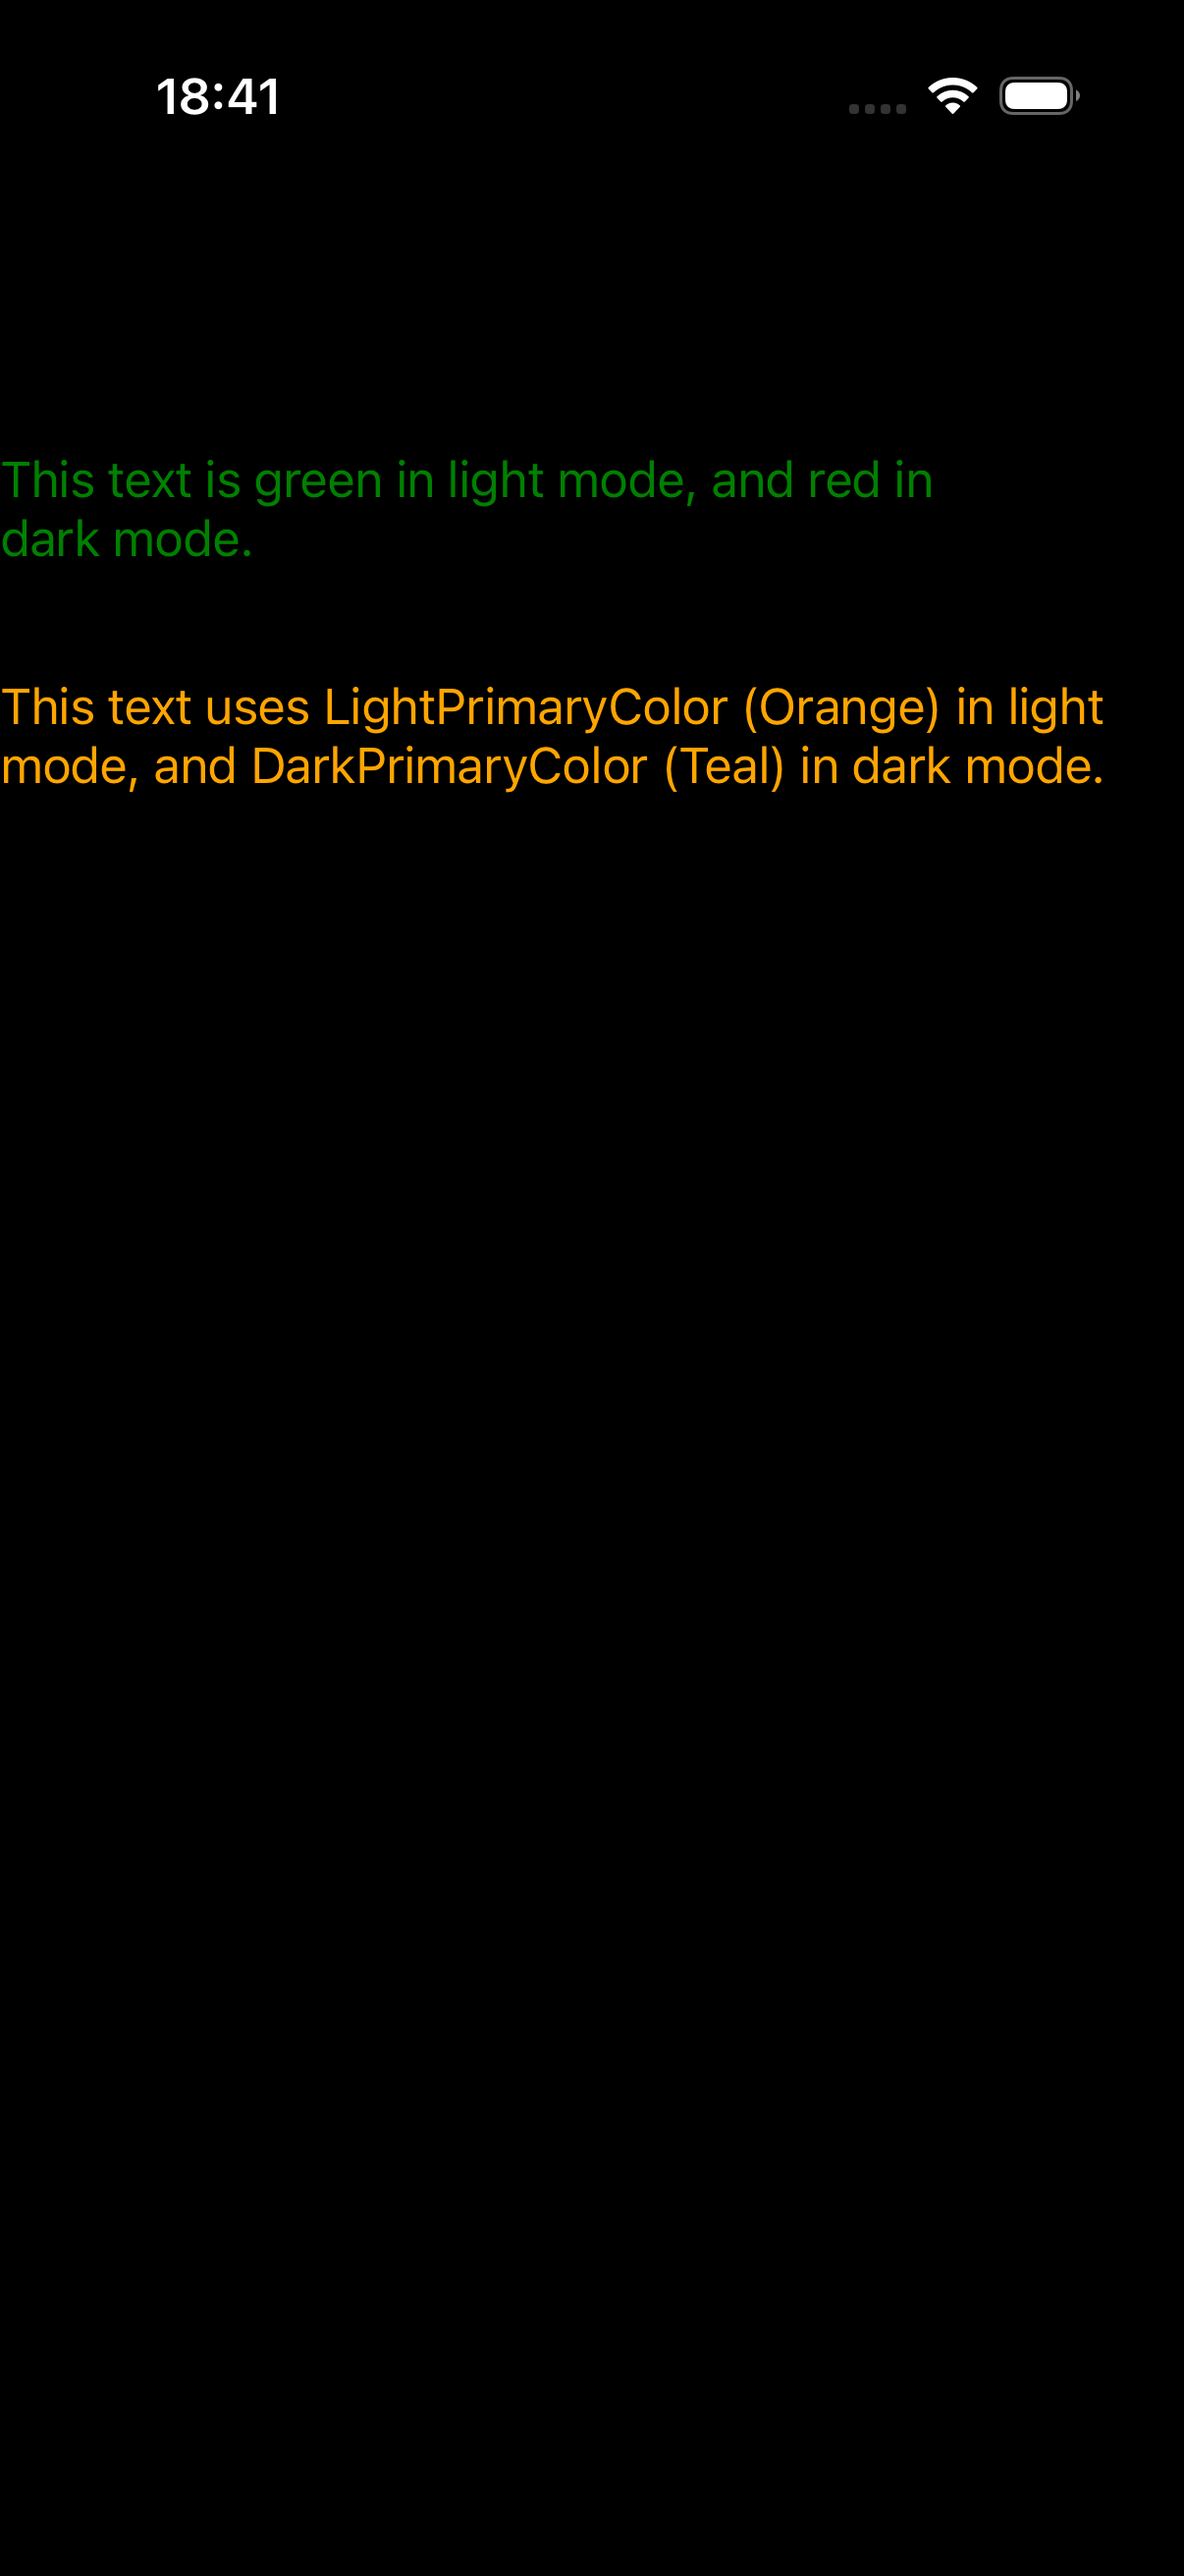
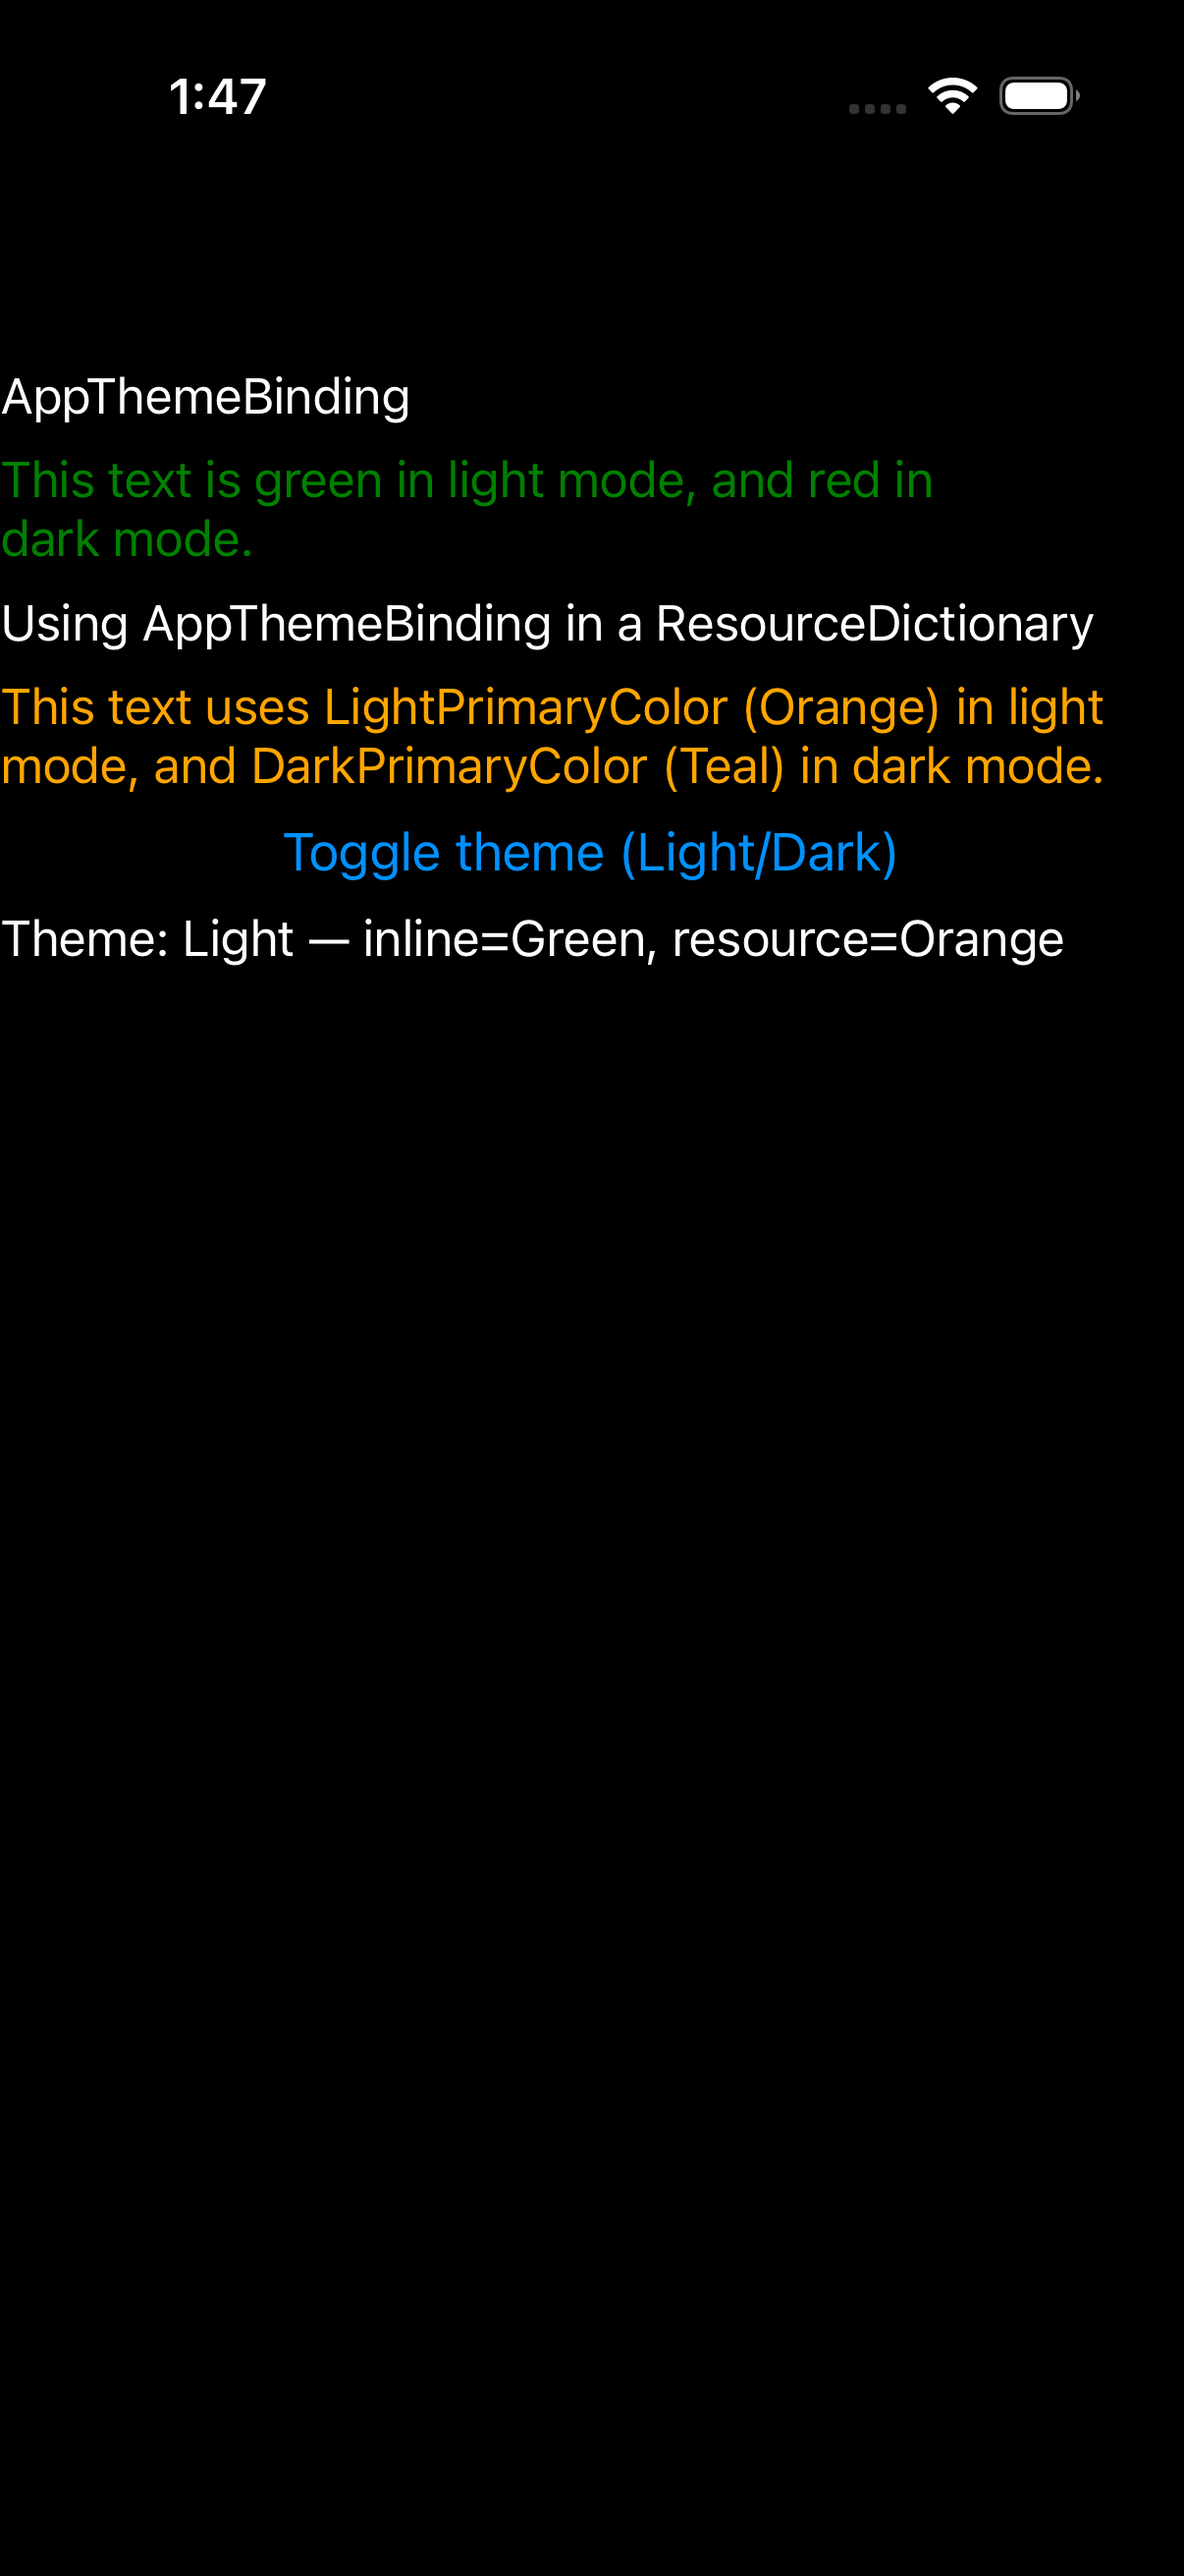
docs(parity): app_theme_binding content matches (cascade); page-surface theme nuance -> minor
example 30/172 (app_theme_binding): the dark-text cascade fixed the previously-missing
labels — heading, green + orange AppThemeBinding paragraphs, Toggle button, and the
Theme:Light status all now render matching the C# content (BOTH apps show LIGHT values:
the page theme is driven by its own toggle defaulting to Light, so MAUI_THEME/
MAUI_APPEARANCE do not flip the AppThemeBinding). Residual: the page SURFACE differs —
C# white (Light) vs C++ black — because the gallery force-darkens the WINDOW while the
AppThemeBinding page resolves to Light (a window-vs-app-theme mismatch specific to these
demos). Tracker: app_theme_binding dark diff->minor (27 minor).

diff --git a/port/cpp/docs/comparison/README.md b/port/cpp/docs/comparison/README.md
@@ -2,7 +2,7 @@
 
 Theme-matched iOS comparison: each page rendered by **real .NET MAUI** vs the **C++ port**, on the same iPhone 17 simulator, compared **light-vs-light** and **dark-vs-dark**. Both stacks render native-default controls + the system font (the C# app's `dotnet new maui` default `Styles.xaml` + OpenSans are stripped; appearance forced via `MAUI_THEME` / `MAUI_APPEARANCE`). Goal: pixel-perfect parity, fixed example-by-example.
 
-**Progress: 0 / 172 🟢 matched** · 26 🟡 minor · 50 🔴 diff · 96 ⬜ pending
+**Progress: 0 / 172 🟢 matched** · 27 🟡 minor · 49 🔴 diff · 96 ⬜ pending
 
 Status legend: 🟢 pixel-match (both themes) · 🟡 minor diff · 🔴 notable diff to fix · ⬜ not yet reviewed. Per-theme verdicts in `parity_status.json`.
 
@@ -41,7 +41,7 @@ Rows are in **fix order** (top → bottom): foundational single controls first (
 | 27 | Triggers | 🟡<br>L:minor<br>D:minor | ![](csharp_ios_light/triggers.png) | ![](cpp_ios_light/triggers.png) | ![](csharp_ios_dark/triggers.png) | ![](cpp_ios_dark/triggers.png) |
 | 28 | Behaviors | 🟡<br>L:minor<br>D:minor | ![](csharp_ios_light/behaviors.png) | ![](cpp_ios_light/behaviors.png) | ![](csharp_ios_dark/behaviors.png) | ![](cpp_ios_dark/behaviors.png) |
 | 29 | Semantics | 🟡<br>L:minor<br>D:minor | ![](csharp_ios_light/semantics.png) | ![](cpp_ios_light/semantics.png) | ![](csharp_ios_dark/semantics.png) | ![](cpp_ios_dark/semantics.png) |
-| 30 | App Theme Binding | 🔴<br>L:minor<br>D:diff | ![](csharp_ios_light/app_theme_binding.png) | ![](cpp_ios_light/app_theme_binding.png) | ![](csharp_ios_dark/app_theme_binding.png) | ![](cpp_ios_dark/app_theme_binding.png) |
+| 30 | App Theme Binding | 🟡<br>L:minor<br>D:minor | ![](csharp_ios_light/app_theme_binding.png) | ![](cpp_ios_light/app_theme_binding.png) | ![](csharp_ios_dark/app_theme_binding.png) | ![](cpp_ios_dark/app_theme_binding.png) |
 | 31 | Stack Layout | 🔴<br>L:diff<br>D:diff | ![](csharp_ios_light/stack_layout.png) | ![](cpp_ios_light/stack_layout.png) | ![](csharp_ios_dark/stack_layout.png) | ![](cpp_ios_dark/stack_layout.png) |
 | 32 | Vertical Stack | ⬜<br>L:pending<br>D:pending | ![](csharp_ios_light/vertical_stack.png) | ![](cpp_ios_light/vertical_stack.png) | ![](csharp_ios_dark/vertical_stack.png) | ![](cpp_ios_dark/vertical_stack.png) |
 | 33 | Horizontal Stack | ⬜<br>L:pending<br>D:pending | ![](csharp_ios_light/horizontal_stack.png) | ![](cpp_ios_light/horizontal_stack.png) | ![](csharp_ios_dark/horizontal_stack.png) | ![](cpp_ios_dark/horizontal_stack.png) |
